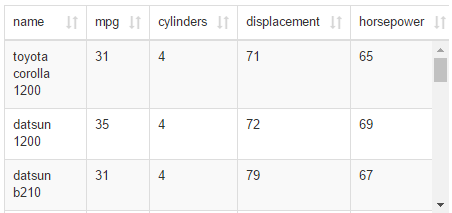
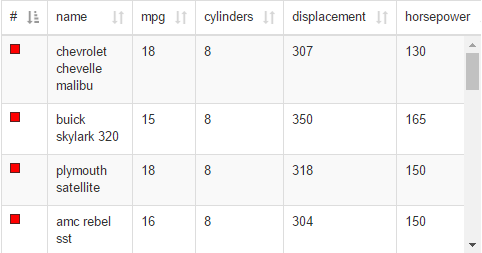
support rendering property column in table

diff --git a/src/visualization/table/index.js b/src/visualization/table/index.js
@@ -100,7 +100,19 @@ visflow.Table.prototype.showDetails = function() {
     rows.push(row);
   }
 
-  var columnDefs = [];
+  var columnDefs = [{
+    render: function(index) {
+      return [
+        '<span class="table-prop" style="',
+        items[index].properties.color !== undefined ?
+          'background-color: ' + items[index].properties.color + ';' : '',
+        items[index].properties.border !== undefined ?
+          'border: 1px solid ' + items[index].properties.border + ';' : '',
+        '"></span>'
+      ].join(' ');
+    },
+    targets: 0
+  }];
   this.dimensions.forEach(function(dim, dimIndex) {
     if (data.dimensionTypes[dim] == visflow.ValueType.TIME) {
       columnDefs.push({
@@ -145,7 +157,7 @@ visflow.Table.prototype.showDetails = function() {
         return 'Page ' + (pageInfo.page + 1) + '/' + pageInfo.pages;
       }
     });
-  this.dataTable.column(0).visible(false);
+  this.dataTable.column(0).visible(true); // overwrite stateSave
   this.dataTable.rows('.sel').select();
 
   this.updateScrollBodyHeight_();

diff --git a/src/about/about.html b/src/about/about.html
@@ -8,7 +8,7 @@
   <ul>
     <li>v0.1, March 2015</li>
     <li>v0.2, November 2015</li>
-    <li><b>v0.2.08, March 2016</b> (current)</li>
+    <li><b>v0.2.09, March 2016</b> (current)</li>
   </ul>
-  <div style="text-align: right;">v0.2.08</div>
+  <div style="text-align: right;">v0.2.09</div>
 </div>

diff --git a/src/visualization/table/table.scss b/src/visualization/table/table.scss
@@ -23,4 +23,10 @@
       user-select: initial;
     }
   }
+
+  .table-prop {
+    display: block;
+    height: 10px;
+    width: 10px;
+  }
 }
